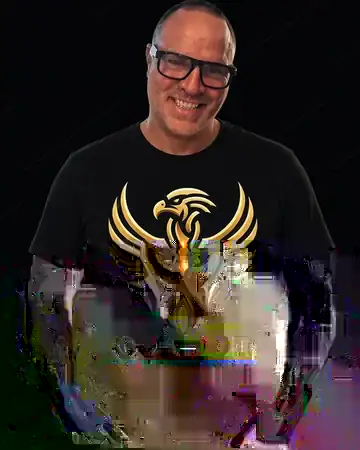
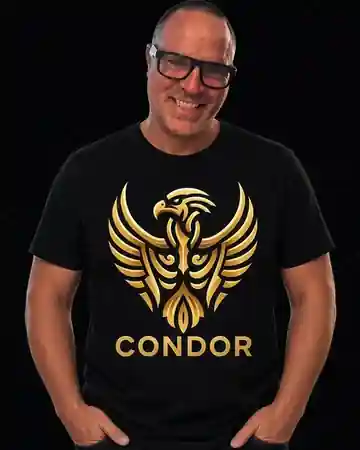
fix: repair merch shirt images on mobile
Replace corrupted shirt WebPs, preserve 4:5 model-photo aspect ratio, and cache-bust image URLs.

diff --git a/public/merch.html b/public/merch.html
@@ -8,7 +8,7 @@
   <link rel="canonical" href="https://www.goldcondor.info/merch" />
   <meta property="og:title" content="Condor Merch — Drop 01" />
   <meta property="og:description" content="Wear the signal. Premium Condor apparel and field gear from Gold Condor Capital." />
-  <meta property="og:image" content="https://www.goldcondor.info/merch/products/condor-crest-tee-model.webp" />
+  <meta property="og:image" content="https://www.goldcondor.info/merch/products/condor-crest-tee-model.webp?v=20260912b" />
   <meta property="og:url" content="https://www.goldcondor.info/merch" />
   <meta property="og:type" content="website" />
   <meta name="description" content="Production-mapped Condor apparel and field gear. Drop 01 is in physical sample approval before checkout goes live." />
@@ -84,7 +84,7 @@
       <div class="product-grid">
         <article class="product-card" data-category="apparel">
           <div class="product-photo product-photo--model">
-            <img src="/merch/products/condor-crest-tee-model.webp" alt="Condor Crest Tee shown on model" loading="lazy" />
+            <img src="/merch/products/condor-crest-tee-model.webp?v=20260912b" alt="Condor Crest Tee shown on model" loading="lazy" />
             <span class="product-badge">SIGNATURE</span>
           </div>
           <div class="product-meta">
@@ -96,7 +96,7 @@
 
         <article class="product-card" data-category="apparel">
           <div class="product-photo product-photo--model">
-            <img src="/merch/products/condor-seal-tee-model.webp" alt="Condor Seal Tee shown on model" loading="lazy" />
+            <img src="/merch/products/condor-seal-tee-model.webp?v=20260912b" alt="Condor Seal Tee shown on model" loading="lazy" />
             <span class="product-badge product-badge--dark">FOUNDERS SEAL</span>
           </div>
           <div class="product-meta">

diff --git a/public/merch.css b/public/merch.css
@@ -193,10 +193,13 @@ footer{padding:30px clamp(20px,4vw,72px);border-top:1px solid var(--line);displa
 
 /* Drop 01 shirt model photography */
 .product-photo--model{
-  height:460px;
+  height:auto;
+  aspect-ratio:4/5;
   background:#050708
 }
 .product-photo--model img{
+  width:100%;
+  height:100%;
   object-fit:cover;
   object-position:center top
 }
@@ -204,7 +207,4 @@ footer{padding:30px clamp(20px,4vw,72px);border-top:1px solid var(--line);displa
   background:#111923;
   color:var(--gold);
   border:1px solid rgba(243,201,76,.35)
-}
-@media (max-width:640px){
-  .product-photo--model{height:560px}
 }
